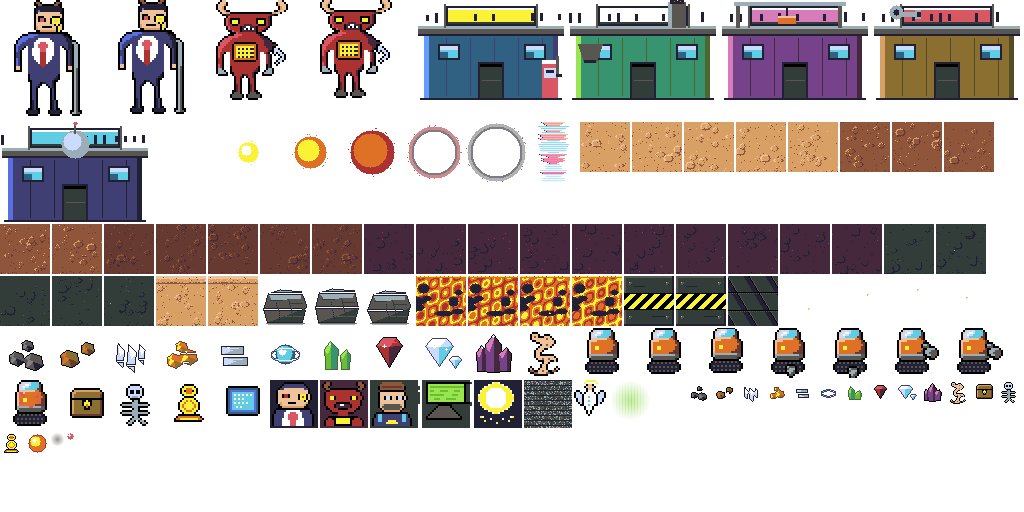
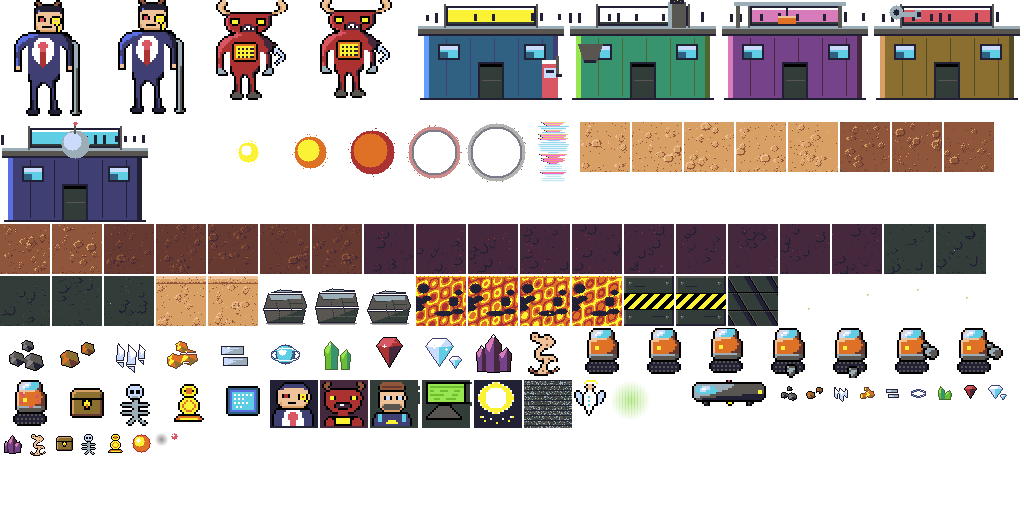
Add animation at befinning

Changed region(s): [[0.6562, 0.7188, 1.0, 0.8125], [0.0, 0.8438, 0.1875, 0.9062]]

diff --git a/src/game/scenes/GameScene.ts b/src/game/scenes/GameScene.ts
@@ -78,6 +78,8 @@ export class GameScene extends Phaser.Scene {
   private damageFlash = true;
   private pixelPerfect = true;
   private oreGlyphs = false;
+  /** Play the carrier-landing cinematic on the first frame (fresh story runs only). */
+  private introPending = false;
   /** Viewport-culled colour-blind glyph pool for on-screen minerals. */
   private glyphs: Phaser.GameObjects.Text[] = [];
   private emberTimer = 0;
@@ -96,6 +98,7 @@ export class GameScene extends Phaser.Scene {
     damageFlash?: boolean;
     pixelPerfect?: boolean;
     oreGlyphs?: boolean;
+    intro?: boolean;
   }): void {
     this.host = data.host;
     this.audio = data.audio;
@@ -104,6 +107,7 @@ export class GameScene extends Phaser.Scene {
     this.damageFlash = data.damageFlash ?? true;
     this.pixelPerfect = data.pixelPerfect ?? true;
     this.oreGlyphs = data.oreGlyphs ?? false;
+    this.introPending = data.intro ?? false;
   }
 
   /** Push live QoL/FX changes into the running scene (called by App.applySettings). */
@@ -274,6 +278,99 @@ export class GameScene extends Phaser.Scene {
     this.setPixelPerfect(this.pixelPerfect);
 
     this.host.onEvent((e) => this.onSimEvent(e));
+
+    if (this.introPending) {
+      this.introPending = false;
+      this.playLanding();
+    }
+  }
+
+  /**
+   * Intro cinematic: the orbital carrier descends with the pod slung under its
+   * winch, sets it down at the spawn point, and climbs away. The sim stays
+   * paused ('intro') throughout, so the first-tick transmission (and every
+   * other scripted event) fires only after the carrier has left.
+   * Any key or click skips.
+   */
+  private playLanding(): void {
+    const p = this.state.pod;
+    this.host.pause('intro');
+    this.pod.sprite.setVisible(false);
+
+    const DROP = 480; // start this far above the pad (well off-screen)
+    const HANG = 52; // px from carrier centre to the slung pod's centre
+    const ship = this.add.image(0, 0, 'atlas', 'carrier');
+    const mkGlow = (x: number) =>
+      this.add
+        .image(x, 16, 'atlas', 'glow32')
+        .setBlendMode(Phaser.BlendModes.ADD)
+        .setTint(0xffa030)
+        .setAlpha(0.45)
+        .setScale(1.1);
+    const glowL = mkGlow(-24);
+    const glowR = mkGlow(20);
+    const carried = this.add.image(0, HANG, 'atlas', 'pod_idle');
+    const rig = this.add
+      .container(p.x, p.y - HANG - DROP, [glowL, glowR, ship, carried])
+      .setDepth(11);
+    if (this.fxFull) {
+      this.tweens.add({
+        targets: [glowL, glowR],
+        alpha: { from: 0.3, to: 0.6 },
+        duration: 90,
+        yoyo: true,
+        repeat: -1,
+      });
+    }
+
+    let done = false;
+    const finish = () => {
+      if (done) return;
+      done = true;
+      this.tweens.killTweensOf([rig, glowL, glowR]);
+      rig.destroy(); // children go with it
+      this.pod.sprite.setVisible(true);
+      this.host.resume('intro');
+      window.removeEventListener('keydown', skip, true);
+      window.removeEventListener('pointerdown', skip, true);
+    };
+    // Capture phase + stopPropagation: the skip press must not leak into
+    // InputManager (Esc would open the pause menu, arrows would pre-load keys).
+    const skip = (e: Event) => {
+      e.preventDefault();
+      e.stopPropagation();
+      finish();
+    };
+    window.addEventListener('keydown', skip, true);
+    window.addEventListener('pointerdown', skip, true);
+    this.events.once('shutdown', finish);
+
+    this.audio.play('thrustLoop', 0.5);
+    this.tweens.add({
+      targets: rig,
+      y: p.y - HANG,
+      duration: 1900,
+      ease: 'Sine.easeOut',
+      onComplete: () => {
+        if (done) return;
+        // Touchdown: release the pod, kick up dust, then climb away.
+        carried.destroy();
+        this.pod.sprite.setVisible(true);
+        this.debrisE.setParticleTint(BAND_TINTS[0]);
+        this.debrisE.explode(10, p.x, p.y + 22);
+        this.audio.play('landThump', 0.7);
+        if (this.screenShake) this.cameras.main.shake(120, 0.004);
+        this.tweens.add({
+          targets: rig,
+          y: p.y - HANG - DROP,
+          delay: 450,
+          duration: 1100,
+          ease: 'Cubic.easeIn',
+          onStart: () => this.audio.play('thrustLoop', 0.5),
+          onComplete: finish,
+        });
+      },
+    });
   }
 
   private buildVignette(): void {

diff --git a/src/app/App.ts b/src/app/App.ts
@@ -270,6 +270,8 @@ export class App {
         damageFlash: Boolean(this.fx.damageFlash),
         pixelPerfect: Boolean(this.fx.pixelPerfect),
         oreGlyphs: Boolean(this.fx.oreGlyphs),
+        // Carrier-landing cinematic: fresh story runs only (not loads, not challenges).
+        intro: state.tick === 0 && state.mode.kind === 'story',
       });
 
       // HUD refresh loop (display-rate, cheap).